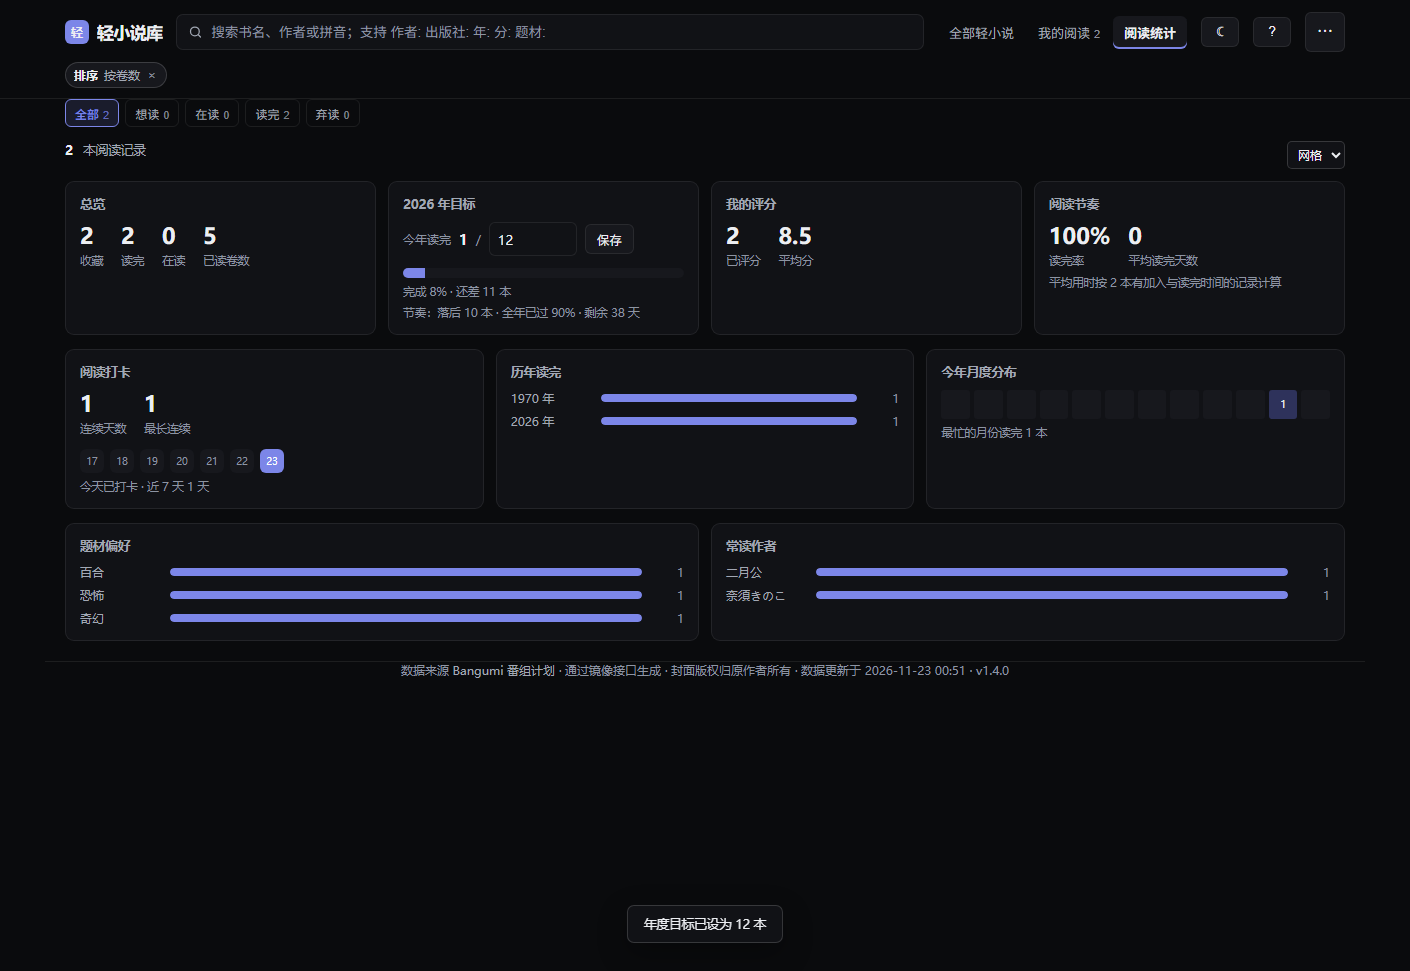
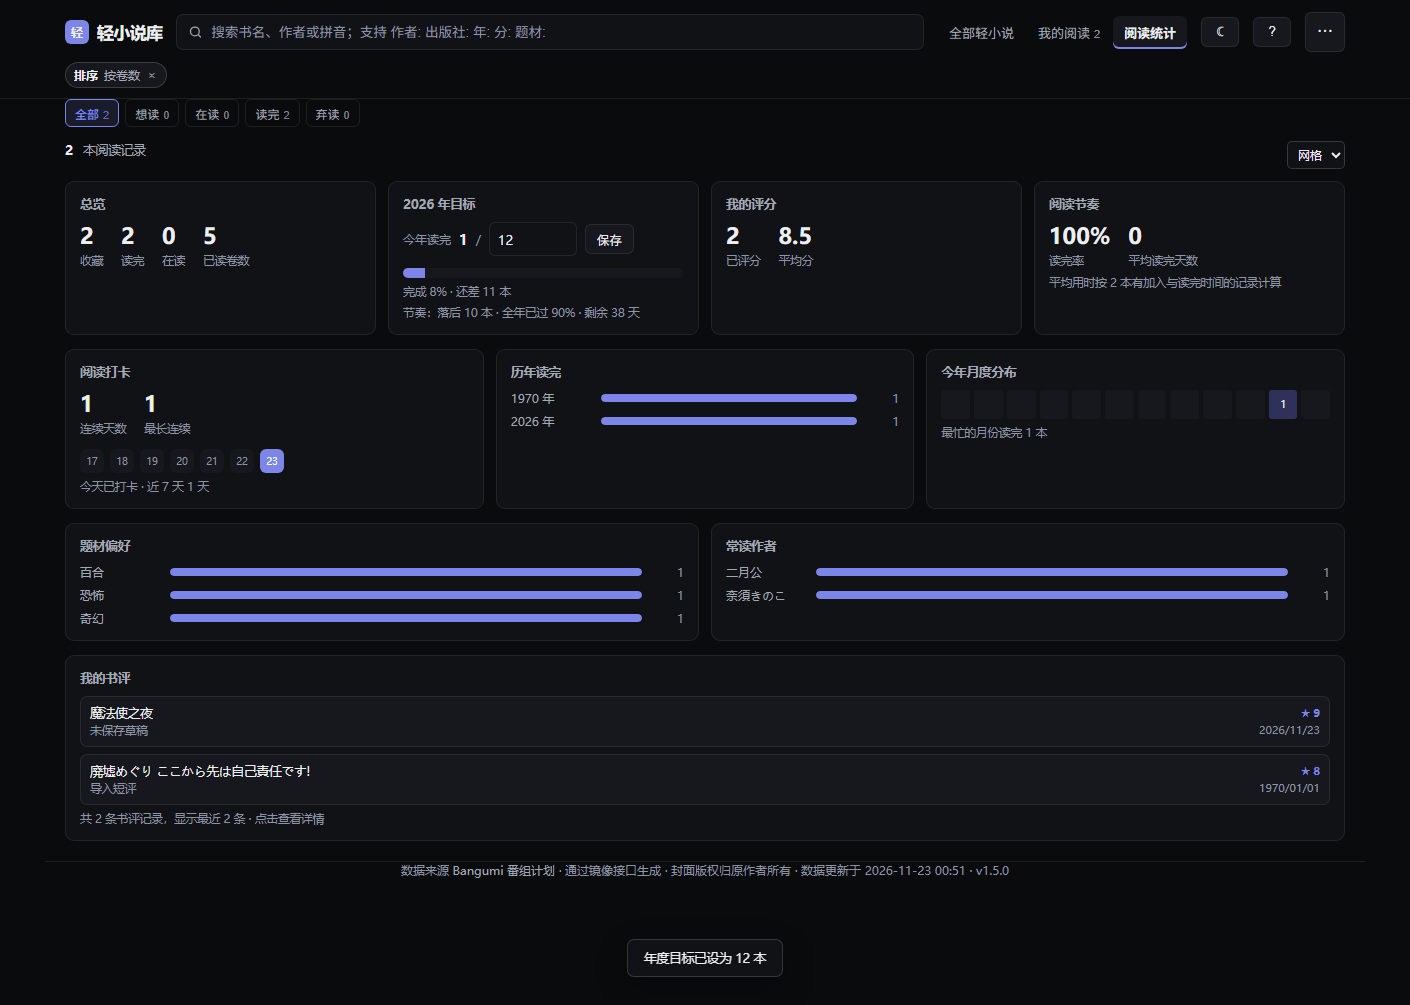
improve: 统计页我的书评汇总（参考 StoryGraph / Goodreads 书评列表）

diff --git a/index.html b/index.html
@@ -18,7 +18,7 @@
 <link rel="preconnect" href="https://bgmimg.anibt.net" crossorigin>
 <link rel="dns-prefetch" href="https://bgmimg.anibt.net">
 <meta name="theme-color" content="#0a0b0d">
-<meta name="version" content="1.4.0">
+<meta name="version" content="1.5.0">
 <style>
   :root {
     --bg: #0d0f14;
@@ -2529,6 +2529,49 @@
   .goal-bar { height: 10px; margin-top: 12px; border-radius: 5px; background: var(--panel-2); overflow: hidden; }
   .goal-bar i { display: block; height: 100%; background: var(--accent); }
   .goal-meta { margin-top: 6px; font-size: 11.5px; color: var(--muted-2); }
+  .stat-card.stat-wide { grid-column: 1 / -1; }
+  .review-list { display: grid; gap: 7px; }
+  .review-item {
+    display: flex;
+    align-items: flex-start;
+    gap: 8px;
+    width: 100%;
+    padding: 8px 9px;
+    border: 1px solid var(--line);
+    border-radius: 7px;
+    background: var(--panel-2);
+    color: var(--text);
+    font: inherit;
+    text-align: left;
+    cursor: pointer;
+  }
+  .review-item:hover { border-color: var(--accent); }
+  .review-main { flex: 1; min-width: 0; }
+  .review-title {
+    display: block;
+    font-size: 12.5px;
+    overflow: hidden;
+    text-overflow: ellipsis;
+    white-space: nowrap;
+  }
+  .review-excerpt {
+    display: -webkit-box;
+    -webkit-line-clamp: 2;
+    -webkit-box-orient: vertical;
+    overflow: hidden;
+    margin-top: 2px;
+    font-size: 11.5px;
+    color: var(--muted-2);
+  }
+  .review-side {
+    flex: 0 0 auto;
+    display: grid;
+    justify-items: end;
+    gap: 2px;
+    font-size: 11px;
+    color: var(--muted-2);
+  }
+  .review-side .rs { color: var(--accent); font-weight: 600; }
   .week-dots { display: flex; gap: 6px; margin-top: 12px; }
   .week-dots span {
     width: 24px;
@@ -2738,7 +2781,7 @@
 </main>
 
 <footer class="wrap">
-  数据来源 <a href="https://bgm.tv" target="_blank" rel="noreferrer">Bangumi 番组计划</a> · 通过镜像接口生成 · 封面版权归原作者所有 · 数据更新于 <span id="dataUpdated" title="Bangumi 数据快照生成时间">—</span> · <span title="项目版本">v1.4.0</span>
+  数据来源 <a href="https://bgm.tv" target="_blank" rel="noreferrer">Bangumi 番组计划</a> · 通过镜像接口生成 · 封面版权归原作者所有 · 数据更新于 <span id="dataUpdated" title="Bangumi 数据快照生成时间">—</span> · <span title="项目版本">v1.5.0</span>
 </footer>
 
 <div class="modal" id="modal" hidden>
@@ -4544,6 +4587,30 @@
   }
   window.__lnContinueList = continueItems;
 
+  // 我的书评汇总：只取写过短评或笔记的记录，按书评更新时间倒序（参考 StoryGraph / Goodreads 的书评列表）
+  function recentReviews(entries, limit) {
+    var max = Number(limit) > 0 ? Number(limit) : 6;
+    var out = [];
+    (entries || []).forEach(function (o) {
+      var x = (o && o.x) || {};
+      var e = (o && o.e) || {};
+      var rv = String(e.rv || '').trim();
+      var nt = String(e.nt || '').trim();
+      if (!rv && !nt) return;
+      out.push({
+        i: String(x.i == null ? '' : x.i),
+        title: x.cn || x.n || '未知书目',
+        r: Number(e.r) || 0,
+        rv: rv,
+        nt: nt,
+        u: Number(e.rvU) || Number(e.u) || Number(e.t) || 0
+      });
+    });
+    out.sort(function (a, b) { return b.u - a.u; });
+    return out.slice(0, max);
+  }
+  window.__lnRecentReviews = recentReviews;
+
   // 我的阅读顶部快捷条：点封面进详情，点「＋1 卷」直接记录下一卷
   function renderContinue() {
     var row = $('continueRow');
@@ -4662,6 +4729,22 @@
       return '<span class="' + lv.trim() + '" title="' + (i + 1) + ' 月读完 ' + n + ' 本">' + (n || '') + '</span>';
     }).join('');
     var streak = readingStreak(loadDays(), entries, new Date());
+    var reviewAll = recentReviews(entries, 9999);
+    var reviews = reviewAll.slice(0, 6);
+    var reviewHtml = reviews.length
+      ? '<div class="review-list">' + reviews.map(function (rv) {
+          var excerpt = rv.rv || rv.nt;
+          var side = (rv.r ? '<span class="rs">★ ' + rv.r + '</span>' : '') +
+            (rv.u ? '<span>' + fmtDate(rv.u) + '</span>' : '');
+          return '<button class="review-item" type="button" data-stats-review="' + escapeHtml(rv.i) +
+            '" title="查看《' + escapeHtml(rv.title) + '》详情">' +
+            '<span class="review-main"><span class="review-title">' + escapeHtml(rv.title) + '</span>' +
+            '<span class="review-excerpt">' + escapeHtml(excerpt) + '</span></span>' +
+            '<span class="review-side">' + side + '</span></button>';
+        }).join('') + '</div>' +
+        '<div class="goal-meta">共 ' + reviewAll.length + ' 条书评记录，显示最近 ' + reviews.length +
+        ' 条 · 点击查看详情</div>'
+      : '<div class="goal-meta">在详情页写下短评或笔记后，会在这里汇总最近的记录</div>';
     var todayDate = new Date();
     var weekDots = streak.cells.map(function (on, i) {
       var dt = new Date(todayDate.getFullYear(), todayDate.getMonth(), todayDate.getDate() - (6 - i));
@@ -4722,10 +4805,15 @@
       '<div class="stats-grid">' +
         '<div class="stat-card"><h3>题材偏好</h3>' + barRows(sortedPairs(byGenre), '收藏的条目暂无题材数据') + '</div>' +
         '<div class="stat-card"><h3>常读作者</h3>' + barRows(sortedPairs(byAuthor), '收藏的条目暂无作者数据') + '</div>' +
+      '</div>' +
+      '<div class="stats-grid">' +
+        '<div class="stat-card stat-wide"><h3>我的书评</h3>' + reviewHtml + '</div>' +
       '</div>';
   }
 
   $('statsPanel').addEventListener('click', function (e) {
+    var rv = e.target.closest('[data-stats-review]');
+    if (rv && rv.dataset.statsReview) { openDetail(rv.dataset.statsReview); return; }
     var act = e.target.closest('[data-stats]');
     if (!act) return;
     if (act.dataset.stats === 'browse') { setTab('all'); return; }

diff --git a/sw.js b/sw.js
@@ -1,5 +1,5 @@
 // 应用壳离线缓存：首页网络优先并带超时回退，其余同源资源缓存优先、后台更新
-var CACHE = 'yuc-ln-shell-v15';
+var CACHE = 'yuc-ln-shell-v16';
 var SHELL = ['./', './index.html', './manifest.webmanifest', './icon.svg', './icons/icon-180.png', './icons/icon-192.png', './icons/icon-512.png', './data/light-novels.js'];
 var IMG_LIMIT = 400;
 

diff --git a/README.md b/README.md
@@ -2,7 +2,9 @@
 
 本地优先的轻小说浏览与阅读记录 PWA。内置 Bangumi「轻小说」标签条目 4007 条，无账号、无后端。
 
-状态：**v1.4.0 已完成**（数据、页面、书评、统计、云同步、PWA、自动化验收 155 项）
+状态：**v1.5.0 已完成**（数据、页面、书评、统计、云同步、PWA、自动化验收 158 项）
+
+v1.5.0：阅读统计新增「我的书评」汇总卡：集中列出写过短评或笔记的书，按书评更新时间倒序显示最近 6 条，含摘要、我的评分与日期，点击可直接打开详情。
 
 v1.4.0：阅读统计新增「阅读打卡」卡片：按本地自然日记录阅读动作，显示连续天数、最长连续与近 7 天打卡格；当天还没记录时保留昨天连击，不会提前归零。
 
@@ -66,14 +68,14 @@ npm run clean-series  # 用本地缓存离线重算子卷
 npm run check-data    # 数据校验
 npm run build-pinyin  # 离线重算拼音首字母
 npm run test-merge    # 同步合并逻辑单元测试
-npm run verify        # 无头浏览器自动化验收（155 项）
+npm run verify        # 无头浏览器自动化验收（158 项）
 ```
 
 `npm run verify` 会在 `screenshots/` 输出桌面与移动端截图。
 
 ## 本地存储
 
-同源部署下所有键均带 `yuc_ln_` 前缀：`yuc_ln_mine_v1`、`yuc_ln_prefs_v1`、`yuc_ln_hist_v1`、`yuc_ln_deleted_v1`、`yuc_ln_settings_v1`、`yuc_ln_gist_v1`、`yuc_ln_backup_v1`、`yuc_ln_dirty_v1`、`yuc_ln_backup_warn_v1`、`yuc_ln_views_v1`、`yuc_ln_goal_v1`、`yuc_ln_draft_v1`、`yuc_ln_days_v1`；Service Worker 缓存名 `yuc-ln-shell-v15`。
+同源部署下所有键均带 `yuc_ln_` 前缀：`yuc_ln_mine_v1`、`yuc_ln_prefs_v1`、`yuc_ln_hist_v1`、`yuc_ln_deleted_v1`、`yuc_ln_settings_v1`、`yuc_ln_gist_v1`、`yuc_ln_backup_v1`、`yuc_ln_dirty_v1`、`yuc_ln_backup_warn_v1`、`yuc_ln_views_v1`、`yuc_ln_goal_v1`、`yuc_ln_draft_v1`、`yuc_ln_days_v1`；Service Worker 缓存名 `yuc-ln-shell-v16`。
 
 ## 部署
 
